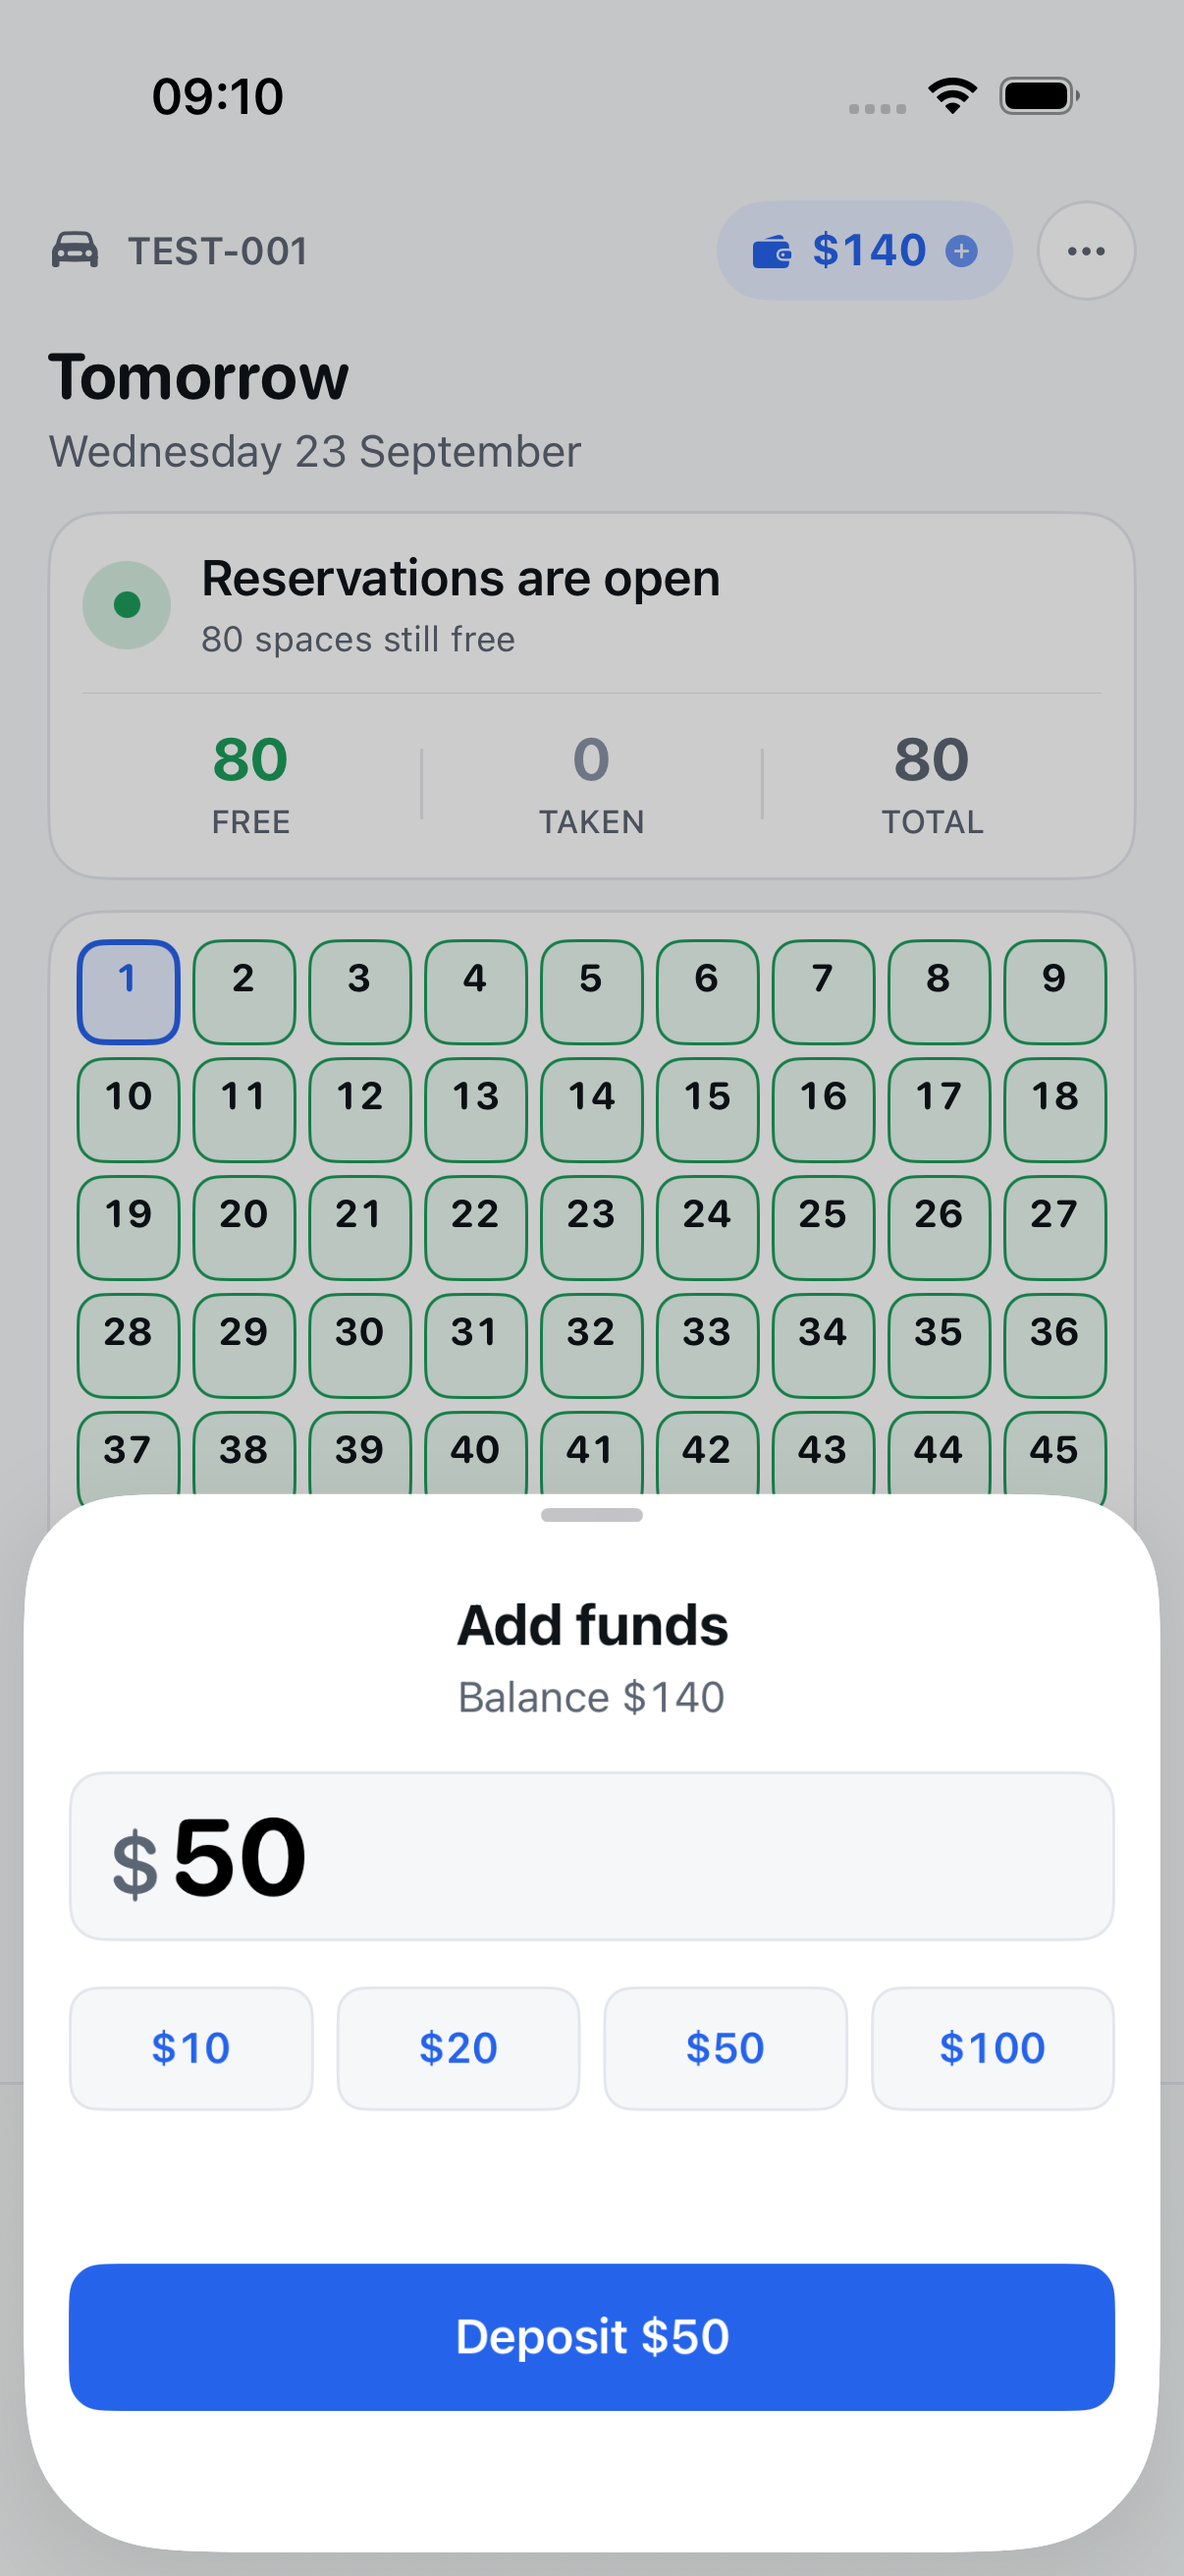
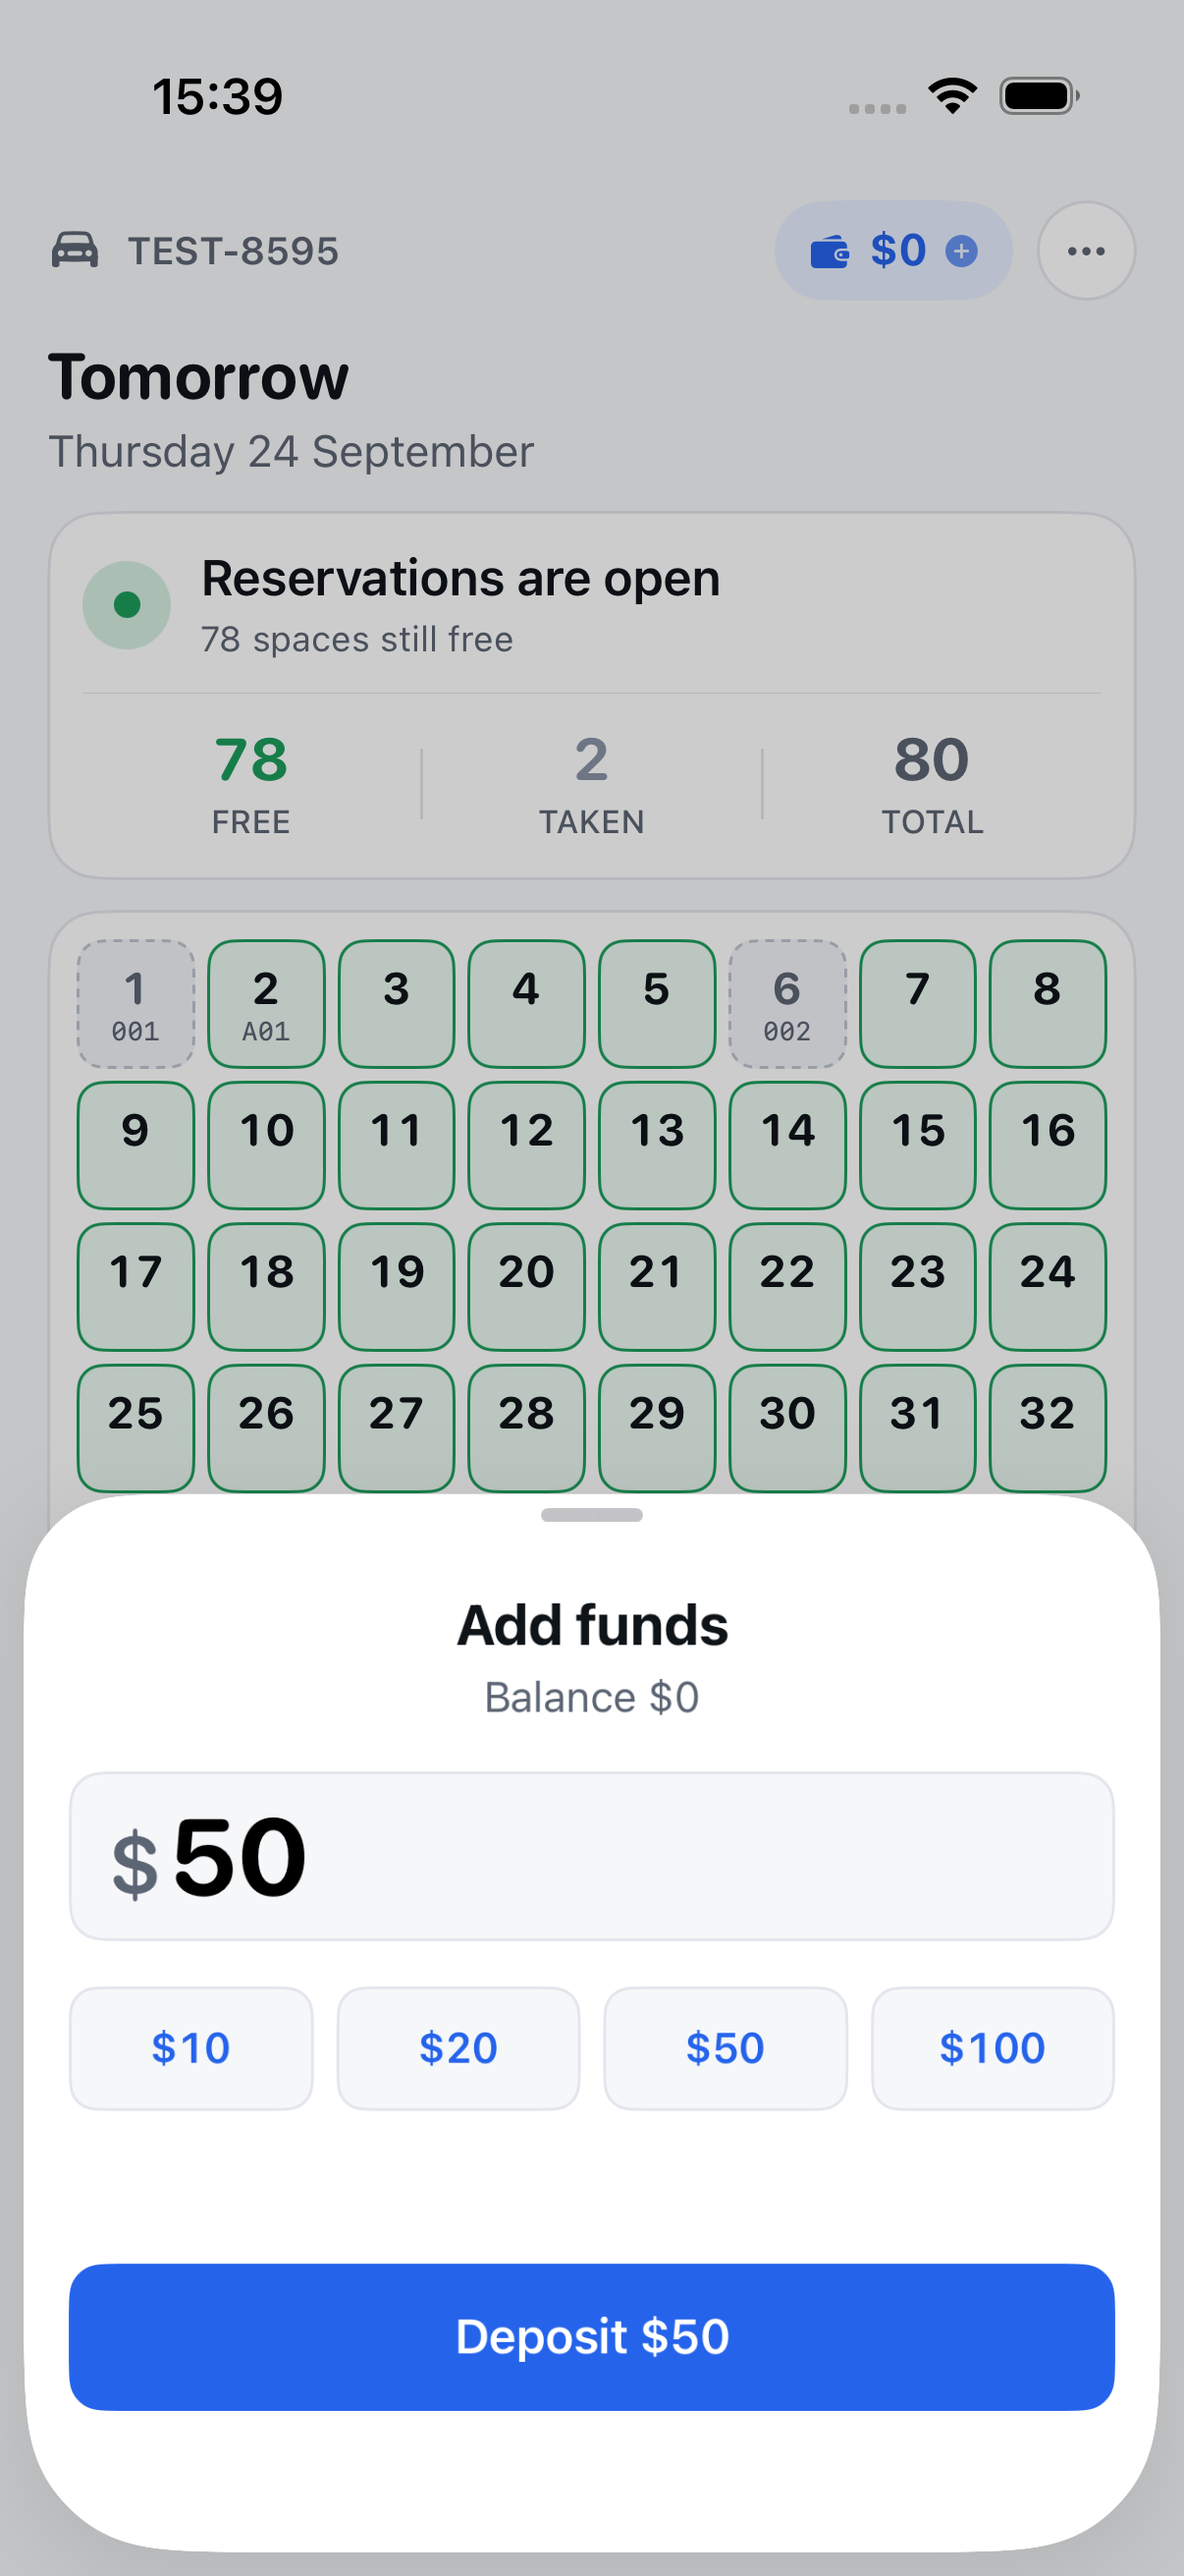
Capture the register screen, and make the capture repeatable
The screenshots were produced by hand, and the suite that makes them could
only ever run once a day: it signed in as a fixed plate, and one reservation
per vehicle per day is a backend invariant, so the second run came back to a
board with the space already held and nothing selectable. It now creates its
own account over HTTP each run and funds it through the wallet sheet, which
also means the deposit path is exercised rather than only photographed.

make screenshots runs it and extracts the attachments. The env var needs a
TEST_RUNNER_ prefix or xcodebuild drops it and the suite skips — reporting
TEST SUCCEEDED while producing nothing, which is how it can look like it has
been running all along.

The register screen is captured but not driven: iOS covers any pair of secure
fields with its strong-password view and nothing the app declares dismisses
it. Numbering shifts by one to keep the folder in demo order, and deposit now
precedes confirm because a new account has to be funded first.

AI-Assisted: drafted

diff --git a/Tests/UITests/ScreenshotTests.swift b/Tests/UITests/ScreenshotTests.swift
@@ -30,8 +30,25 @@ final class ScreenshotTests: XCTestCase {
         add(shot)
     }
 
-    func testCaptureFlow() throws {
+    /// Creates the account over HTTP rather than through the registration screen. iOS puts its
+    /// Automatic Strong Password cover view over any pair of secure fields, and nothing the app
+    /// declares dismisses it, so a test cannot type a confirmation. The screen is still
+    /// captured; it just is not driven.
+    private func makeAccount() async throws -> String {
+        let plate = "TEST-\(Int.random(in: 1000...9999))"
+        guard let url = URL(string: "http://localhost:8080/auth/register") else { return plate }
+        var request = URLRequest(url: url)
+        request.httpMethod = "POST"
+        request.setValue("application/json", forHTTPHeaderField: "Content-Type")
+        request.httpBody = Data(#"{"licensePlate":"\#(plate)","password":"probation123"}"#.utf8)
+        _ = try await URLSession.shared.data(for: request)
+        return plate
+    }
+
+    func testCaptureFlow() async throws {
         try XCTSkipUnless(isEnabled, "Set SCREENSHOTS=1 and start the backend")
+
+        let plate = try await makeAccount()
 
         let app = XCUIApplication()
         app.launchArguments += ["-UITestSkipReauth"]
@@ -40,18 +57,36 @@ final class ScreenshotTests: XCTestCase {
 
         capture(app, "01-login")
 
-        let plate = app.textFields["login.plate"]
-        XCTAssertTrue(plate.waitForExistence(timeout: 10))
-        plate.tap()
-        plate.typeText("TEST-001")
+        // The registration screen is captured, not driven — see `makeAccount`.
+        app.buttons["login.register"].tap()
+        XCTAssertTrue(app.textFields["register.plate"].waitForExistence(timeout: 5))
+        capture(app, "02-register")
+        app.buttons["register.cancel"].tap()
 
+        // A fresh account each run. One reservation per vehicle per day is a backend
+        // invariant, so a fixed plate captures this flow once and then never again that day:
+        // the board comes up with the space already held and nothing is selectable.
+        let plateField = app.textFields["login.plate"]
+        XCTAssertTrue(plateField.waitForExistence(timeout: 10))
+        plateField.tap()
+        plateField.typeText(plate)
         app.secureTextFields["login.password"].tap()
         app.secureTextFields["login.password"].typeText("probation123")
         app.buttons["login.submit"].tap()
         dismissSavePasswordPromptIfPresent(in: app, timeout: 5)
 
         XCTAssertTrue(app.buttons["space.1"].waitForExistence(timeout: 15), "grid should load")
-        capture(app, "02-board")
+        capture(app, "03-board")
+
+        // A new account holds nothing, so fund it before reserving. This is the one place the
+        // rehearsal has to *do* something rather than look at it.
+        app.buttons["dashboard.wallet"].tap()
+        XCTAssertTrue(app.buttons["deposit.submit"].waitForExistence(timeout: 5))
+        capture(app, "04-deposit")
+        app.buttons["deposit.preset.50"].tap()
+        app.buttons["deposit.submit"].tap()
+
+        XCTAssertTrue(app.buttons["space.1"].waitForExistence(timeout: 10), "back on the board")
 
         // Select a free space to raise the confirm bar.
         for number in 1...80 where app.buttons["space.\(number)"].exists {
@@ -62,26 +97,20 @@ final class ScreenshotTests: XCTestCase {
             }
         }
         XCTAssertTrue(app.buttons["dashboard.confirm"].waitForExistence(timeout: 5))
-        capture(app, "03-confirm")
-
-        // Wallet sheet.
-        app.buttons["dashboard.wallet"].tap()
-        XCTAssertTrue(app.buttons["deposit.submit"].waitForExistence(timeout: 5))
-        capture(app, "04-deposit")
-        app.swipeDown(velocity: .fast)
+        capture(app, "05-confirm")
 
         // Commit, and capture whatever the truth turns out to be.
         if app.buttons["dashboard.confirm"].waitForExistence(timeout: 5) {
             app.buttons["dashboard.confirm"].tap()
             let dismiss = app.buttons["outcome.dismiss"]
             XCTAssertTrue(dismiss.waitForExistence(timeout: 15), "an attempt must always resolve visibly")
-            capture(app, "05-outcome")
+            capture(app, "06-outcome")
             dismiss.tap()
         }
 
         XCTAssertTrue(app.descendants(matching: .any)["dashboard.holding"].waitForExistence(timeout: 10),
                       "after a win the board should show which space is held")
-        capture(app, "06-holding")
+        capture(app, "07-holding")
     }
 
     /// Landscape and iPad use the side-by-side layout: board on the leading side taking the
@@ -115,14 +144,14 @@ final class ScreenshotTests: XCTestCase {
         }, evaluatedWith: app)
         wait(for: [rotated], timeout: 10)
         XCTAssertTrue(app.buttons["space.1"].waitForExistence(timeout: 10))
-        capture(app, "10-landscape")
+        capture(app, "11-landscape")
 
         for number in 1...80 where app.buttons["space.\(number)"].isEnabled {
             app.buttons["space.\(number)"].tap()
             break
         }
         _ = app.buttons["dashboard.confirm"].waitForExistence(timeout: 5)
-        capture(app, "11-landscape-confirm")
+        capture(app, "12-landscape-confirm")
 
         XCUIDevice.shared.orientation = .portrait
     }
@@ -149,6 +178,6 @@ final class ScreenshotTests: XCTestCase {
         dismissSavePasswordPromptIfPresent(in: app, timeout: 5)
 
         XCTAssertTrue(app.buttons["space.1"].waitForExistence(timeout: 15))
-        capture(app, "07-countdown")
+        capture(app, "08-countdown")
     }
 }

diff --git a/scripts/collect-screenshots.py b/scripts/collect-screenshots.py
@@ -1,0 +1,36 @@
+#!/usr/bin/env python3
+"""Copy the named screenshot attachments out of an xcresult export into docs/screenshots.
+
+`xcresulttool export attachments` writes opaque filenames plus a manifest that maps them to
+the names the test gave each capture. Only attachments whose name looks like `NN-something`
+are taken, so an incidental attachment never lands in the evidence folder.
+"""
+import json
+import pathlib
+import re
+import shutil
+import sys
+
+source, destination = (pathlib.Path(p) for p in sys.argv[1:3])
+manifest = json.loads((source / "manifest.json").read_text())
+destination.mkdir(parents=True, exist_ok=True)
+
+# Exported names carry the capture name plus an index and a UUID:
+# "07-holding_0_9F3C....png". Only the leading NN-name part is wanted.
+wanted = re.compile(r"^(\d{2}-[a-z-]+)_")
+copied = []
+for test in manifest:
+    for attachment in test.get("attachments", []):
+        match = wanted.match(attachment.get("suggestedHumanReadableName") or "")
+        if not match:
+            continue
+        exported = source / attachment["exportedFileName"]
+        target = destination / f"{match.group(1)}.png"
+        shutil.copyfile(exported, target)
+        copied.append(target.name)
+
+for name in sorted(copied):
+    print(f"  {name}")
+print(f"{len(copied)} screenshots written to {destination}")
+if not copied:
+    sys.exit("no screenshots found — did the suite skip?")

diff --git a/docs/runbook.md b/docs/runbook.md
@@ -91,7 +91,30 @@ window the server is not using.
 
 `make` with no target lists every command.
 
-## 5. Load test
+## 5. Screenshots
+
+```bash
+make screenshots        # needs the backend up: make backend-now
+```
+
+Runs `ScreenshotTests` against the live backend, exports the attachments from the `.xcresult`
+and writes them into `docs/screenshots/`.
+
+Two things this wraps, both of which cost time when done by hand:
+
+1. **The environment variable needs a `TEST_RUNNER_` prefix.** `xcodebuild` passes only those
+   through to the test-runner process. A plain `SCREENSHOTS=1` leaves the suite skipped — and a
+   skipped suite still reports `** TEST SUCCEEDED **`, so it looks like it ran.
+2. **The run creates its own account** over HTTP and funds it through the UI. One reservation
+   per vehicle per day is a backend invariant, so a fixed plate captures the flow once and then
+   never again that day: the board comes back with the space already held and nothing is
+   selectable.
+
+The registration screen is captured but not driven. iOS puts its Automatic Strong Password
+cover view over any pair of secure fields and nothing the app declares dismisses it, so a test
+cannot type a confirmation.
+
+## 6. Load test
 
 k6 is not preinstalled. `tests/load-stress-test.js` defines `options.scenarios`, so
 `--vus` and `--duration` on the command line are **ignored**:
@@ -108,7 +131,7 @@ Two caveats, both in `docs/defects.md` D8: the run reports a crossed `http_req_f
 threshold even when behaving perfectly (409 is counted as a failure), and it reports green
 against a *closed* window. The real pass criterion is `reservation_success == 80`.
 
-## 6. CI — self-hosted runner
+## 7. CI — self-hosted runner
 
 CI on every push is a **guardrail** (6.4). It is not achievable on GitHub's hosted macOS
 runners: the free tier grants ~2,000 minutes a month but bills macOS at **10×**, so ~200
@@ -116,7 +139,7 @@ effective macOS minutes, and this workflow takes ~6 minutes. That is about 12 ru
 whole fortnight. A self-hosted runner is the only way the guardrail is met, which is why the brief puts it in
 the Default column as the expected answer.
 
-### 6.1 Conditions that must hold before registering
+### 7.1 Conditions that must hold before registering
 
 **Repository**
 
@@ -148,7 +171,7 @@ certificate, provisioning profile or App Store credential anywhere in the pipeli
 what keeps guardrail 6.5 ("no secrets, keys or credentialled endpoints in the repo") true of
 CI as well as of the app.
 
-### 6.2 Security conditions — read before running this on your own machine
+### 7.2 Security conditions — read before running this on your own machine
 
 A self-hosted runner executes whatever the workflow says, as your user, on your Mac. That is
 fine here and would not be fine everywhere:
@@ -164,7 +187,7 @@ fine here and would not be fine everywhere:
   dependency could linger. There are no third-party dependencies in this project, which
   narrows that surface to approximately zero.
 
-### 6.3 Registering it
+### 7.3 Registering it
 
 ```bash
 # 1. Create the private repo and push (one-off, from the repo root)
@@ -188,7 +211,7 @@ TOKEN=$(gh api -X POST repos/<owner>/parking-ios/actions/runners/registration-to
 
 The registration token is short-lived (one hour) and is not a secret worth keeping.
 
-### 6.4 Verifying it actually works
+### 7.4 Verifying it actually works
 
 Registration is not the same as CI passing:
 
@@ -200,9 +223,9 @@ gh run watch
 
 The first run is what finds the environment problems: `xcodegen: command not found` means
 condition 8 is unmet, and `Command CodeSign failed` means condition 9 is. Reading the result
-is §6.5.
+is §7.5.
 
-### 6.5 Reading a CI run
+### 7.5 Reading a CI run
 
 Registration is the one-off part. This is the part you do every day.
 
@@ -300,7 +323,7 @@ rerun passed unchanged.
 Worth checking before assuming a real failure, because the symptom is indistinguishable from
 a broken build in every view except that one log file.
 
-### 6.6 Resource contention on a 16 GB machine
+### 7.6 Resource contention on a 16 GB machine
 
 The runner shares the machine with everything else. During this project, running colima
 (6 GB), Xcode, two simulators and a Vite dev server at once was enough for macOS to start
@@ -312,7 +335,7 @@ Practical mitigations, in order of preference: stop colima when the backend is n
 simultaneously. The `concurrency` group in the workflow already cancels superseded runs, so
 rapid pushes do not stack.
 
-### 6.7 If the runner cannot be registered
+### 7.7 If the runner cannot be registered
 
 The guardrail is CI on every push, not a self-hosted runner specifically. If registration is
 blocked — no admin rights, corporate device management — the fallback is a hosted macOS
@@ -320,7 +343,7 @@ runner with the workflow trimmed to lint plus unit tests (~2 minutes), pushing t
 and archive to a nightly schedule. That fits the free tier and keeps *something* on every
 push. It is a worse answer and should be argued for explicitly, not slipped in.
 
-## 7. Demo checklist
+## 8. Demo checklist
 
 1. Backend up with the gate **on** and the window shifted to the current hour.
 2. Clean grid (§3), 1000 synthetic users seeded by a k6 setup run.

diff --git a/docs/design.md b/docs/design.md
@@ -288,7 +288,7 @@ error.
 | **G** | CI on every push: build, lint, unit tests, UI tests on a simulator | met — `.github/workflows/ci.yml` runs lint, build, unit tests, UI tests and archive on every push to `main`, on the runner below. It has caught a UI test that was green only because of a simulator setting I had changed by hand |
 | D | Tests against fakes never the live backend; SwiftLint in CI at zero violations | kept, with one exception: `ScreenshotTests` drives the live backend deliberately. Skipped unless `SCREENSHOTS=1`, so CI never runs it |
 | D | `xcodebuild archive` in CI, build number from the commit, `docs/runbook.md` | kept (`make archive` derives from `git rev-list --count`) |
-| D | CI on a self-hosted runner on the development machine | runner `harry-mbp-m4` registered and online; conditions in `docs/runbook.md` §6 |
+| D | CI on a self-hosted runner on the development machine | runner `harry-mbp-m4` registered and online; conditions in `docs/runbook.md` §7 |
 
 ### 6.5 Standards: security bar and AI-assisted workflow
 

diff --git a/docs/slides.md b/docs/slides.md
@@ -217,7 +217,7 @@ lint → build → unit tests → UI tests → archive → upload results
 ```
 
 Self-hosted because the free tier does not cover macOS minutes for the fortnight; the
-registration conditions are in [`runbook.md`](runbook.md) §6.
+registration conditions are in [`runbook.md`](runbook.md) §7.
 
 **CI has already earned its place:** it caught a UI test that was green locally only because
 I had switched Reduce Motion on in the simulator by hand.
